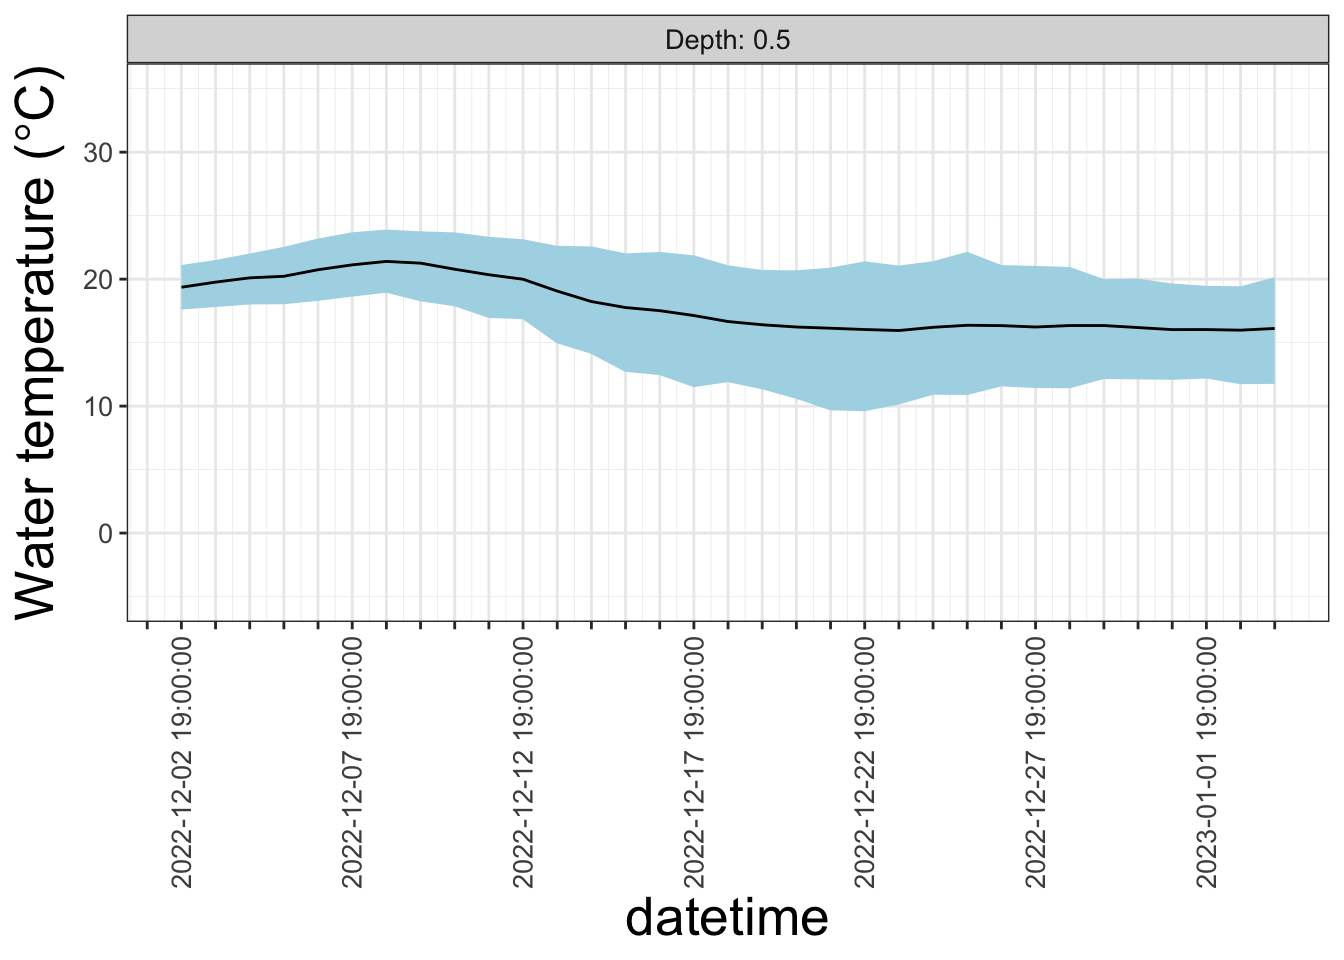
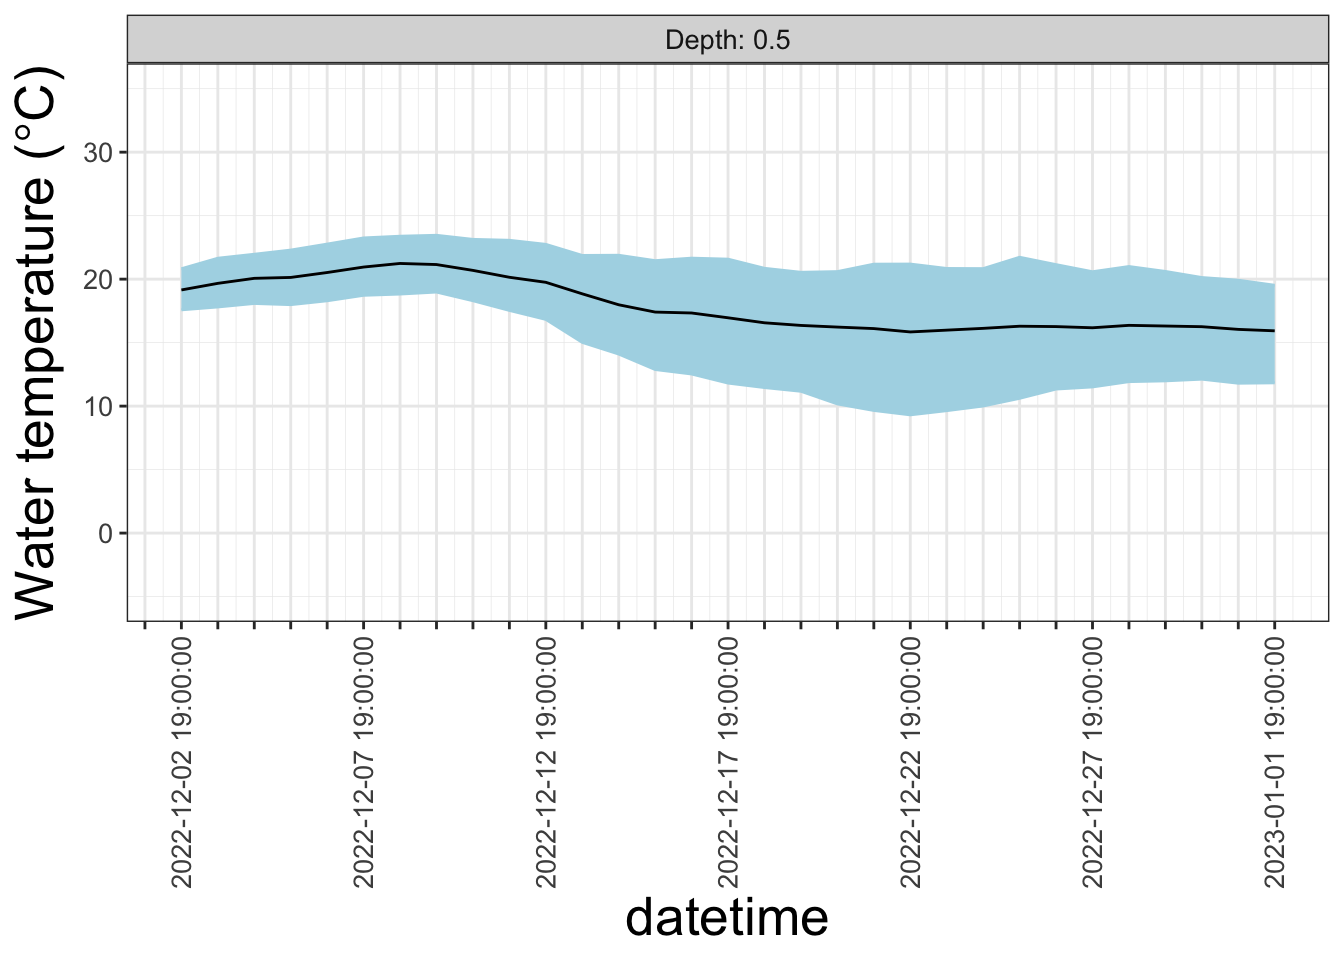
update suugs

diff --git a/docs/neon.html b/docs/neon.html
@@ -157,7 +157,7 @@ background-size: cover;
 <div class="cell" data-fig.showtext="false">
 
 </div>
-<p>The most recent forecast is from 2022-12-01 19:00:00 (Eastern U.S. time).</p>
+<p>The most recent forecast is from 2022-12-02 19:00:00 (Eastern U.S. time).</p>
 <div class="cell" data-fig.showtext="false">
 <div class="cell-output-display">
 <p><img src="neon_files/figure-html/unnamed-chunk-5-1.png" class="img-fluid" width="672"></p>
